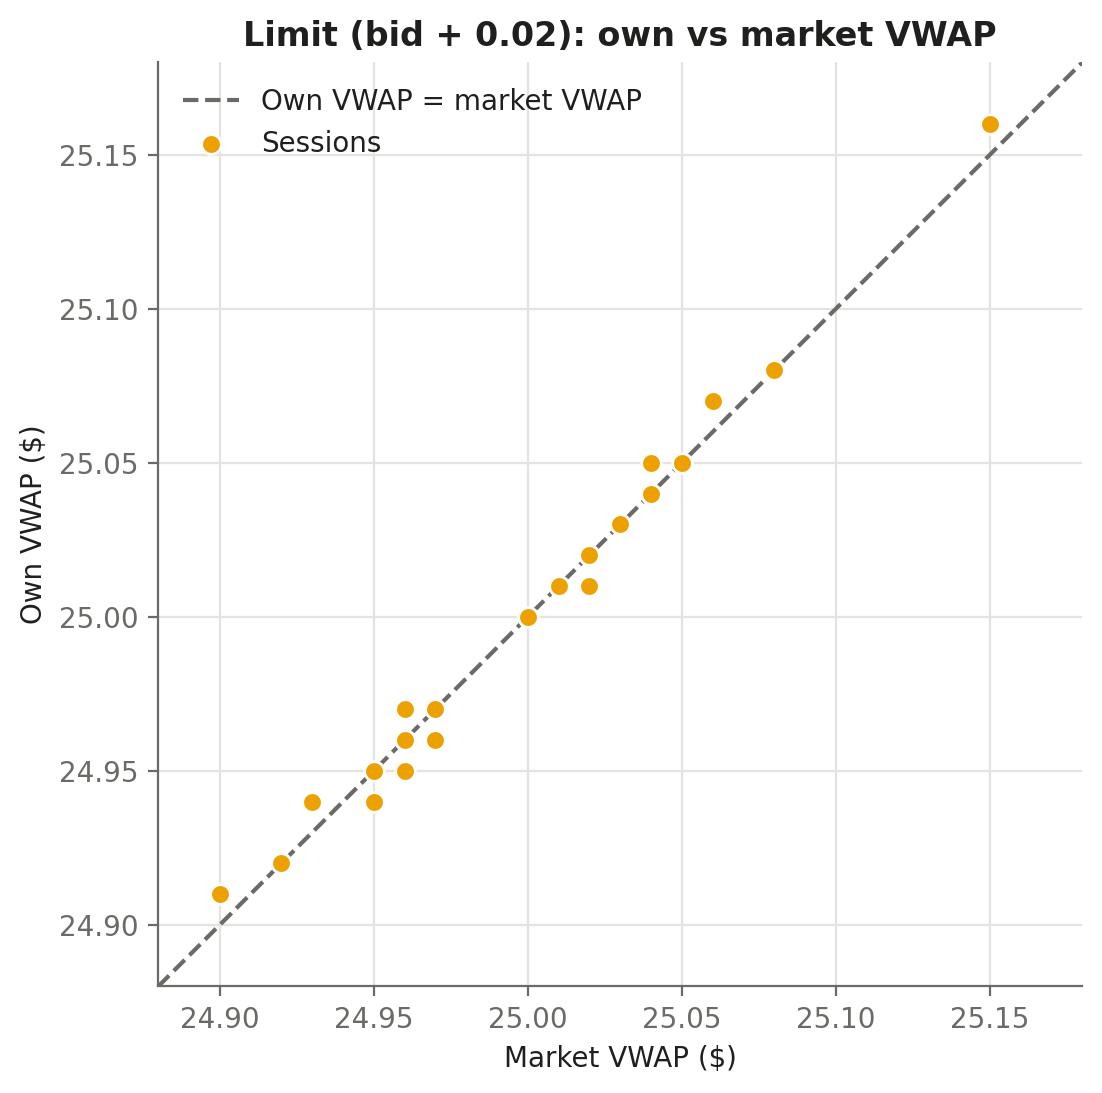
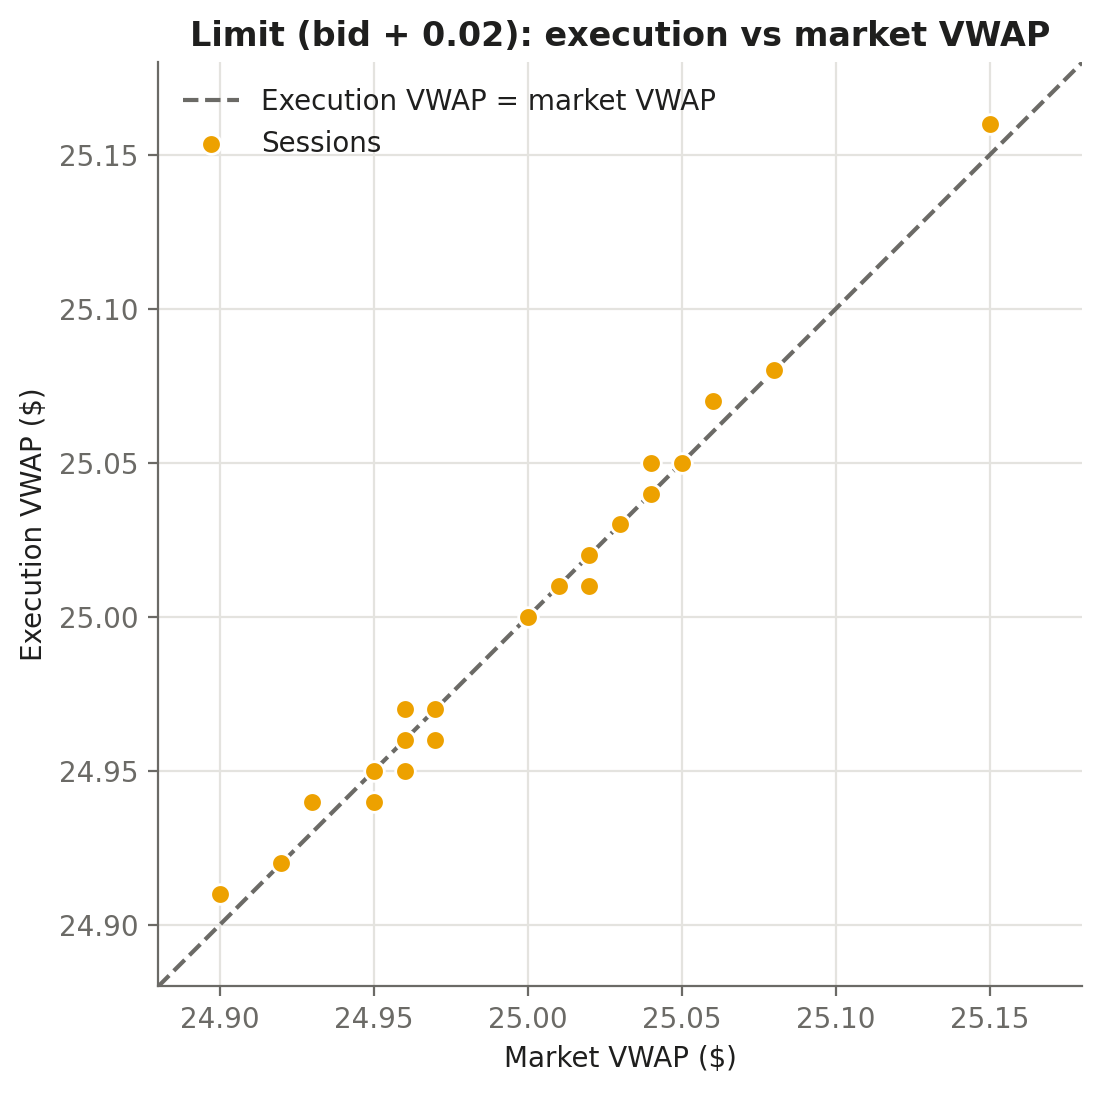
Tidy up README and rename scripts
Also renamed own VWAP to execution VWAP.

Changed region(s): [[0.1851, 0.0, 0.9564, 0.1244], [0.0, 0.3733, 0.0617, 0.591]]

diff --git a/analyse_results.py b/analyse_results.py
@@ -1,7 +1,7 @@
 """
 analyse_results.py
 
-Summary tables and report plots for every strategy, plus cross-strategy comparisons.
+Summary tables and plots for every strategy, plus cross-strategy comparisons.
 Reads the CSVs in each <Strategy>/Results folder and never modifies them.
 
     python analyse_results.py
@@ -21,7 +21,7 @@ from scipy import stats
 ROOT = os.path.dirname(os.path.abspath(__file__))
 COMPARISON_DIR = os.path.join(ROOT, "Comparison")
 IS = "Implementation Shortfall"
-IS_AXIS = "Implementation shortfall ($/share)\nown VWAP - market VWAP"
+IS_AXIS = "Implementation shortfall ($/share)\nexecution VWAP - market VWAP"
 
 # Fixed colour per strategy so it is the same in every plot
 COLOURS = ["#2a78d6", "#eb6834", "#1baf7a", "#eda100", "#e87ba4", "#4a3aa7"]
@@ -88,8 +88,8 @@ def find_strategies():
 # Per-tick shortfall, one column per session, ready to plot
 def load_timeseries(s):
     df = pd.read_csv(s.out(s.timeseries_csv)).drop_duplicates(subset=["Session", "Tick"], keep="last")
-    # Before the first fill RIT reports an own VWAP of 0, which is not a real shortfall
-    df = df[df["Own VWAP"] > 0]
+    # Before the first fill RIT reports an execution VWAP of 0, which is not a real shortfall
+    df = df[df["Execution VWAP"] > 0]
     # Sessions stopped before the end would bend the mean line
     last_tick = df.groupby("Session")["Tick"].max()
     complete = last_tick[last_tick == last_tick.max()].index
@@ -104,7 +104,7 @@ def summarise(s):
     x = s.shortfall
     return {
         "Sessions": len(x),
-        "Mean Own VWAP": round(s.df["Own VWAP"].mean(), 3),
+        "Mean Execution VWAP": round(s.df["Execution VWAP"].mean(), 3),
         "Mean Market VWAP": round(s.df["Market VWAP"].mean(), 3),
         "Shortfall Mean": round(x.mean(), 3),
         "Shortfall Median": round(x.median(), 3),
@@ -161,20 +161,20 @@ def plot_by_session(s):
     ax.legend(loc="upper right")
     save(fig, s.plot_path("shortfall_by_session"))
 
-# Own VWAP against market VWAP: points above the 45-degree line paid more than the market
+# Execution VWAP against market VWAP: points above the 45-degree line paid more than the market
 def plot_vwap_scatter(s):
     fig, ax = plt.subplots(figsize=(6, 6))
-    lo = min(s.df["Own VWAP"].min(), s.df["Market VWAP"].min()) - 0.02
-    hi = max(s.df["Own VWAP"].max(), s.df["Market VWAP"].max()) + 0.02
-    ax.plot([lo, hi], [lo, hi], color=MUTED, linewidth=1.5, linestyle="--", label="Own VWAP = market VWAP")
-    ax.scatter(s.df["Market VWAP"], s.df["Own VWAP"], color=s.colour, s=50, edgecolor="white", linewidth=1,
+    lo = min(s.df["Execution VWAP"].min(), s.df["Market VWAP"].min()) - 0.02
+    hi = max(s.df["Execution VWAP"].max(), s.df["Market VWAP"].max()) + 0.02
+    ax.plot([lo, hi], [lo, hi], color=MUTED, linewidth=1.5, linestyle="--", label="Execution VWAP = market VWAP")
+    ax.scatter(s.df["Market VWAP"], s.df["Execution VWAP"], color=s.colour, s=50, edgecolor="white", linewidth=1,
                zorder=3, label="Sessions")
     ax.set_xlim(lo, hi)
     ax.set_ylim(lo, hi)
     ax.set_aspect("equal")
     ax.set_xlabel("Market VWAP ($)")
-    ax.set_ylabel("Own VWAP ($)")
-    ax.set_title(f"{s.label}: own vs market VWAP")
+    ax.set_ylabel("Execution VWAP ($)")
+    ax.set_title(f"{s.label}: execution vs market VWAP")
     ax.legend(loc="upper left")
     save(fig, s.plot_path("vwap_scatter"))
 
@@ -249,7 +249,7 @@ def plot_mean_ci(strategies, table):
     ax.set_title("Mean shortfall by strategy")
     save(fig, os.path.join(COMPARISON_DIR, "mean_shortfall_ci.png"))
 
-# Expected cost against risk (sd of cost), as in the efficient trading frontier (Hasbrouck 17.2)
+# Expected cost against risk (sd of cost)
 def plot_cost_vs_risk(strategies):
     fig, ax = plt.subplots(figsize=(8, 5.5))
     for s in strategies:
@@ -301,7 +301,7 @@ def main():
     # Immediate buy: per-session table with Mean and Std Dev rows for the write-up
     immediate = next((s for s in strategies if s.prefix == "Immediate_buy"), None)
     if immediate:
-        cols = ["Session", "Own VWAP", "Market VWAP", IS]
+        cols = ["Session", "Execution VWAP", "Market VWAP", IS]
         table = immediate.df[cols].astype({"Session": str})
         stat_rows = pd.DataFrame([{"Session": name, **getattr(immediate.df[cols[1:]], fn)()} for name, fn in
                                   [("Mean", "mean"), ("Std Dev", "std")]])

diff --git a/rit_common.py b/rit_common.py
@@ -1,7 +1,7 @@
 """
 rit_common.py
 
-Shared code for the AT1 strategy scripts: RIT API helpers, schedule handling,
+Shared code for the strategy scripts: RIT API helpers, schedule handling,
 CSV logging and the session loop that every strategy runs inside.
 """
 
@@ -57,7 +57,7 @@ def get_position(api):
     return _get_security(api)['position']
 
 # Our own average execution price
-def get_own_vwap(api):
+def get_execution_vwap(api):
     return _get_security(api)['vwap']
 
 def get_last_price(api):
@@ -134,17 +134,17 @@ def _append_row(csv_path, header, row):
             writer.writerow(header)
         writer.writerow(row)
 
-def log_vwap_point(csv_path, session_number, tick, own_vwap, market_vwap):
-    own, market = round(own_vwap, 2), round(market_vwap, 2)
+def log_vwap_point(csv_path, session_number, tick, execution_vwap, market_vwap):
+    execution, market = round(execution_vwap, 2), round(market_vwap, 2)
     _append_row(csv_path,
-                ['Session', 'Tick', 'Own VWAP', 'Market VWAP', 'Implementation Shortfall'],
-                [session_number, tick, own, market, round(own - market, 2)])
+                ['Session', 'Tick', 'Execution VWAP', 'Market VWAP', 'Implementation Shortfall'],
+                [session_number, tick, execution, market, round(execution - market, 2)])
 
-def log_session_result(csv_path, session_number, final_position, own_vwap, market_vwap, extras):
+def log_session_result(csv_path, session_number, final_position, execution_vwap, market_vwap, extras):
     _append_row(csv_path,
-                ['Session', 'Final Position', 'Own VWAP', 'Market VWAP', 'Implementation Shortfall'] + list(extras),
-                [session_number, round(final_position, 2), own_vwap, market_vwap,
-                 round(own_vwap - market_vwap, 2)] + list(extras.values()))
+                ['Session', 'Final Position', 'Execution VWAP', 'Market VWAP', 'Implementation Shortfall'] + list(extras),
+                [session_number, round(final_position, 2), execution_vwap, market_vwap,
+                 round(execution_vwap - market_vwap, 2)] + list(extras.values()))
 
 
 # --- Session loop --------------------------------------------------------------
@@ -177,25 +177,25 @@ class SessionRun:
             status = f"on schedule - {actual:.0f} shares"
         print(f"tick {tick} (scheduled {scheduled_tick}): {status}")
         log_vwap_point(self.timeseries_csv, self.number, scheduled_tick,
-                       get_own_vwap(self.api), self.market_vwap.update(self.api))
+                       get_execution_vwap(self.api), self.market_vwap.update(self.api))
 
     # Print and log the final position, VWAPs and implementation shortfall
     def finish(self, session_csv, extras):
         final_position = get_position(self.api)
-        own_vwap = round(get_own_vwap(self.api), 2)
+        execution_vwap = round(get_execution_vwap(self.api), 2)
         market_vwap = round(self.market_vwap.update(self.api), 2)
 
         print("--- FINAL RESULTS ---")
         print(f"Final position:  {final_position:.0f} (target {TOTAL_SHARES})")
         for name, value in extras.items():
             print(f"{name + ':':<16} {value}")
-        print(f"Own VWAP:        {own_vwap:.2f}")
+        print(f"Execution VWAP:  {execution_vwap:.2f}")
         print(f"Market VWAP:     {market_vwap:.2f}")
-        print(f"Impl. shortfall: {own_vwap - market_vwap:+.2f}")
+        print(f"Impl. shortfall: {execution_vwap - market_vwap:+.2f}")
 
         if self.timeseries_csv:
-            log_vwap_point(self.timeseries_csv, self.number, CASE_LENGTH_TICKS, own_vwap, market_vwap)
-        log_session_result(session_csv, self.number, final_position, own_vwap, market_vwap, extras)
+            log_vwap_point(self.timeseries_csv, self.number, CASE_LENGTH_TICKS, execution_vwap, market_vwap)
+        log_session_result(session_csv, self.number, final_position, execution_vwap, market_vwap, extras)
 
 
 # Run trade(api, case, run) for every session until Ctrl+C. trade returns the extra

diff --git a/LimitOrders/limit_orders.py b/LimitOrders/limit_orders.py
@@ -1,4 +1,4 @@
-"""Limit orders (Q4): VWAP schedule placed as limit orders at best bid + offset.
+"""Limit orders: VWAP schedule placed as limit orders at best bid + offset.
 
 Unfilled shares roll into the next window, and whatever is left at the final
 sweep tick is bought with market orders.

diff --git a/ImmediateBuy/immediate_buy.py b/ImmediateBuy/immediate_buy.py
@@ -1,4 +1,4 @@
-"""Immediate buy (Q2): buy all shares with market orders at the start of the session."""
+"""Immediate buy: buy all shares with market orders at the start of the session."""
 
 import os
 import sys

diff --git a/VWAPStrategy/vwap.py b/VWAPStrategy/vwap.py
@@ -1,4 +1,4 @@
-"""VWAP strategy (Q1): market orders following the historical volume schedule."""
+"""VWAP strategy: market orders following the historical volume schedule."""
 
 import os
 import sys

diff --git a/TWAPStrategy/twap.py b/TWAPStrategy/twap.py
@@ -1,4 +1,4 @@
-"""TWAP strategy (Q5): equal-sized market orders at even intervals."""
+"""TWAP strategy: equal-sized market orders at even intervals."""
 
 import os
 import sys

diff --git a/README.md b/README.md
@@ -1,17 +1,17 @@
-# FIN332 – AT1 Agency Trading (VWAP Execution Strategies)
+# VWAP Execution Strategies for Rotman Interactive Trader
 
-Python algorithms for the Rotman Interactive Trader (RIT) "Agency Trading 1"
-case: accumulate 100,000 shares of TNX using different execution strategies and
-compare each against the market VWAP.
+Python trading algorithms for the Rotman Interactive Trader (RIT) Agency Trading
+case. Each strategy buys a large block of shares over a trading session, and its
+execution cost is measured against the market VWAP for that session.
 
 ## Strategies
 
-| Folder | Strategy | Discussion question |
-|---|---|---|
-| `VWAPStrategy/` | Market orders following a historical volume-weighted schedule (4-tick or 8-tick windows) | Q1 |
-| `ImmediateBuy/` | Buy all 100,000 shares at the start | Q2 |
-| `LimitOrders/` | VWAP schedule using limit orders at best bid + offset; unfilled shares roll into the next window, with a market-order sweep at the end | Q4 |
-| `TWAPStrategy/` | Equal-sized orders at even intervals | Q5 |
+| Script | Strategy |
+|---|---|
+| `VWAPStrategy/vwap.py` | Market orders following a volume-weighted schedule built from historical volume |
+| `ImmediateBuy/immediate_buy.py` | The whole order bought with market orders at the start of the session |
+| `LimitOrders/limit_orders.py` | The VWAP schedule placed as limit orders at best bid + offset; unfilled shares roll into the next window, with a market-order sweep at the end |
+| `TWAPStrategy/twap.py` | Equal-sized market orders at even intervals |
 
 `rit_common.py` holds the shared code (API helpers, market VWAP tracking, CSV
 logging and the session loop), so each strategy script only contains its trading
@@ -20,32 +20,37 @@ logic. `analyse_results.py` builds the summary tables and plots.
 ## Setup
 
 1. Install Python 3 and the libraries: `pip install requests pandas matplotlib scipy`
-2. Create `local_config.py` and put your RIT API key in it as RIT_API_KEY = "YOURKEY" (found on the RIT Client's API tab).
-3. Open the RIT Client and load the AT1 case before running a script.
+2. Create `local_config.py` in the repo folder containing your RIT API key
+   (from the RIT Client's API tab): `RIT_API_KEY = "YOURKEY"`
+3. Open the RIT Client and load the case before running a script.
 
 ## Running
 
-From the repo folder:
+From the repo folder, for example:
 
-    python VWAPStrategy/AT1_VWAP_Market_ALGO.py
+    python VWAPStrategy/vwap.py
 
 Each script waits for the case to become active, trades it, logs the results,
 then waits for the next session. Press Ctrl+C to stop. To carry on numbering
 from an earlier run, pass `--start-session N`.
 
-Settings to change are at the top of each script:
-- `VWAPStrategy`: `SCHEDULE_NAME` ("4_tick" or "8_tick")
-- `LimitOrders`: `OFFSET` (dollars added to the best bid)
+Settings are at the top of each script:
+- `VWAPStrategy`, `LimitOrders`: `SCHEDULE_NAME` (which schedule in `InputData/` to follow)
+- `LimitOrders`: `OFFSET` (dollars added to the best bid) and `FINAL_SWEEP_TICK`
 - `TWAPStrategy`: `INTERVAL_TICKS`
-- All variants: `MAX_ORDER_SIZE`
+- All strategies: `MAX_ORDER_SIZE`
 
 ## Output
 
-Each variant writes CSVs to its own `Results/` folder:
-- `*_session_results.csv`: one row per session (final position, own VWAP, market VWAP, implementation shortfall)
-- `*_vwap_timeseries.csv`: own vs market VWAP and implementation shortfall at each checkpoint tick
+Each strategy writes CSVs to its own `Results/` folder:
+- `*_session_results.csv`: one row per session (final position, execution VWAP,
+  market VWAP, implementation shortfall)
+- `*_vwap_timeseries.csv`: execution vs market VWAP and implementation shortfall
+  at each checkpoint tick
 
-Implementation shortfall = own VWAP − market VWAP (Hasbrouck §16.1, using market VWAP as an interval benchmark). Market VWAP is computed from time-and-sales data.
+Implementation shortfall = execution VWAP − market VWAP, so a positive value
+means paying more than the market. Market VWAP is computed from time-and-sales
+data.
 
 ## Analysis
 
@@ -53,15 +58,15 @@ Implementation shortfall = own VWAP − market VWAP (Hasbrouck §16.1, using mar
 
 Reads every strategy's results (never modifies them) and writes:
 - per strategy, in `<Strategy>/Results/Plots/`: shortfall histogram, shortfall by
-  session, own vs market VWAP, running shortfall over the session, and sweep
-  sizes for the limit orders
+  session, execution vs market VWAP, running shortfall over the session, and
+  sweep sizes for the limit orders
 - summary CSVs in each `Results/` folder
 - `Comparison/`: shortfall by strategy (box plot), mean shortfall with 95% CIs,
   cost vs risk, mean running shortfall per strategy, and `strategy_comparison.csv`
   (mean, standard deviation and 95% confidence interval per strategy)
 
-## Notes
+## Purchase schedules
 
-- The 4-tick schedule was derived from the 10-minute historical volume data by
-  spreading each window's shares evenly across its ticks.
-- Case materials are not included in this repo.
+Schedules in `InputData/` list, for each window, the tick range, the shares to buy
+and the cumulative target. The 4-tick schedule spreads each 10-minute window of
+historical volume evenly across its ticks.
